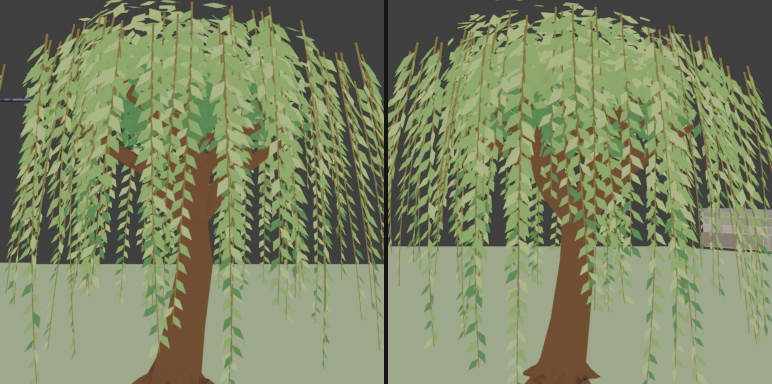
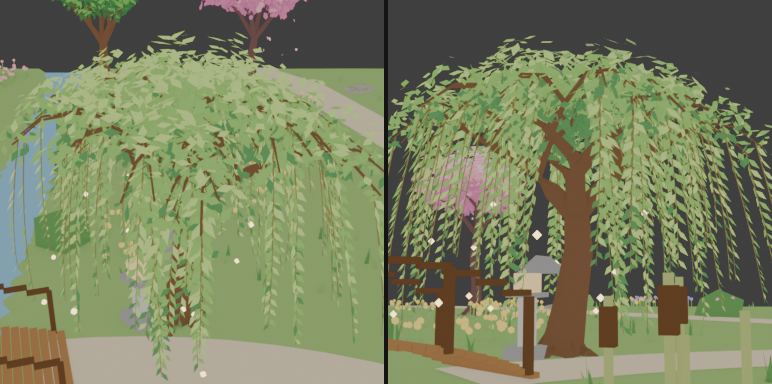
Monastery: wilgenslierten hangen aan boogtakken
Claude-Session: https://claude.ai/code/session_01Rt9CDi9a5gimawiazNT8HK

diff --git a/tools/blender/monastery/07_willow.py b/tools/blender/monastery/07_willow.py
@@ -32,7 +32,7 @@ def willow(seed=90, n_strands=78):
     cen = sum((Vector(e) for e in ends), Vector()) / len(ends)
     for e in ends:
         C.cluster(Vector(e) + Vector((0, 0, 0.25)), 0.55, 34, 0.13, up=0.9)
-    for k in range(14):
+    for k in range(9):
         e = Vector(random.choice(ends)); c = e.lerp(cen, 0.3) + Vector((0, 0, 0.35))
         tube(G, "GH_Monastery_Bark", [(e, 0.04), (e.lerp(c, 0.5) + Vector((0, 0, 0.1)), 0.025), (c, 0.014)], seg=4)
         C.cluster(c, 1.15, 75, 0.15, up=0.9, flat=0.6)
@@ -41,13 +41,26 @@ def willow(seed=90, n_strands=78):
     # hanging strands of leaves all round the crown
     sway = {}                                    # vertex index -> (offset A, offset B)
     L_, M_, D_ = (G.mi(m) for m in WIL)
-    for s in range(n_strands):
-        a = 2 * math.pi * s / n_strands + random.uniform(-0.05, 0.05)
-        rr = random.uniform(1.3, 2.6)
-        out = Vector((math.cos(a), math.sin(a), 0))
-        att = Vector((cen.x, cen.y, 0)) + out * rr
-        att.z = crown_top - 0.5 - (rr - 1.3) * 0.55 + random.uniform(-0.2, 0.1)
-        L = random.uniform(2.0, att.z - 0.5)
+    # arching branches: from every branch end thin boughs arch out and down; the strands hang FROM these boughs
+    hooks = []                                   # (attach point, outward direction)
+    C2 = Crown(inner=1.3, outer=0.8)             # leaves along the top of the boughs
+    for e in ends:
+        e = Vector(e); base_a = math.atan2(e.y - cen.y, e.x - cen.x)
+        for m in range(3):
+            a = base_a + random.uniform(-0.9, 0.9)
+            out = Vector((math.cos(a), math.sin(a), 0)); reach = random.uniform(1.0, 1.7)
+            pts = [e, e + out * reach * 0.35 + Vector((0, 0, 0.35)), e + out * reach * 0.7 + Vector((0, 0, 0.25)), e + out * reach + Vector((0, 0, -0.15))]
+            tube(G, "GH_Monastery_Bark", [(pts[0], 0.045), (pts[1], 0.035), (pts[2], 0.025), (pts[3], 0.016)], seg=4)
+            for k in range(n_strands // (len(ends) * 3) + 1):
+                u = random.uniform(0.25, 1.0); seg = min(int(u * 3), 2); f = u * 3 - seg
+                hooks.append((pts[seg].lerp(pts[seg + 1], f), out))
+            for pp in (pts[1], pts[2], pts[3]):
+                C2.cluster(pp + Vector((0, 0, 0.12)), 0.4, 11, 0.14, up=0.9, flat=0.6)
+    C2.emit(G, WIL, "leaf")
+    random.shuffle(hooks)
+    for att, out in hooks[:n_strands]:
+        att = att.copy()
+        L = random.uniform(1.8, max(2.0, att.z - 0.5))
         dirA = (Vector((1, 0.3, 0)) * 0.6 + Vector((random.uniform(-1, 1), random.uniform(-1, 1), 0))).normalized()
         dirB = Vector((-dirA.y, dirA.x, 0)); amp = 0.28 * L / 2.8 * random.uniform(0.8, 1.2)
         nc = int(L / 0.1)

diff --git a/docs/PROGRESS.md b/docs/PROGRESS.md
@@ -703,4 +703,4 @@ Doel: na Sultan kies je in de Academy je pad (Sir Garrick, Master Brink of Wizar
 - Blender (middag): sakura's met doorkijkbare kroon (takken + bloesemtrosjes) en vallende blaadjes (lus van 10 s).
 - Blender (avond): bomen in Genshin-stijl naar Bo's voorbeelden: sakura's, eiken en appelboom met een kroon van veel kleine blad-/bloesemkaartjes in lagen (licht boven, donker onder). Vallende blaadjes starten in de nieuwe kroon. Script `06_card_trees.py`.
 - Blender (avond): dennen voor nu uit de tuin (Bo bedenkt nog iets anders). Treurwilgen opnieuw in kaartjes-stijl met zwaaiende slierten en vuurvliegjes eromheen (`07_willow.py`).
-- Blender (avond): kronen met grote blaadjes binnen en kleine buiten; bladwolken en wilgenslierten hangen nu aan twijgjes (niets zweeft meer).
+- Blender (avond): kronen met grote blaadjes binnen en kleine buiten; bladwolken en wilgenslierten hangen nu aan twijgjes (niets zweeft meer). Wilgenslierten hangen aan boogtakken die uit de takken groeien.

diff --git a/docs/MONASTERY.md b/docs/MONASTERY.md
@@ -135,7 +135,10 @@ aan een twijgje vanaf een tak, en bij de wilg zit elke sliert aan een dun hangen
 met de blaadjes eraan vast; het twijgje zwaait mee. Vertices nu: sakura ~25.600 / ~24.600, eik ~10.400 / ~12.100,
 appel ~8.000, wilg ~19.000. Backup ervoor: `Monastery_backup_before_twigs.blend`.
 
-![Wilg met twijgjes](monastery/willow_twigs.png)
+**Wilg aan de boom vast (2026-10-12, Bo):** uit elk takeinde groeien 3 dunne boogtakken naar buiten en omlaag, met
+blaadjes erop; de slierten hangen aan die boogtakken, dus alles zit aan de boom vast. ~23.400 vertices.
+
+![Wilg met boogtakken](monastery/willow_twigs.png)
 
 ## Markers (collectie `MON_Markers`)
 
